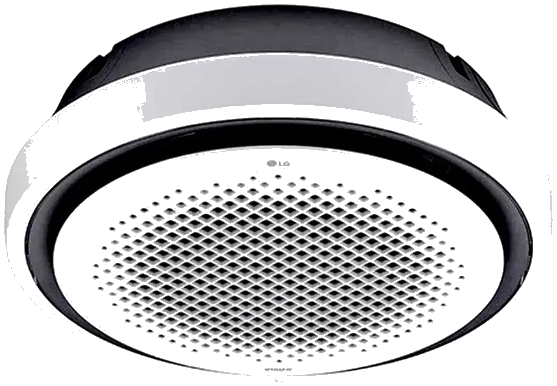
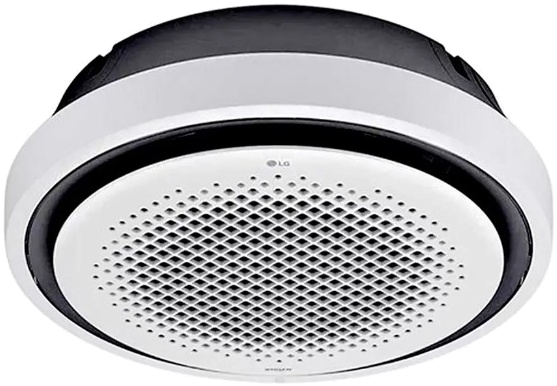
Auto deploy calculator 2026.09.10-v5

diff --git a/index.html b/index.html
@@ -1,5 +1,5 @@
 <!DOCTYPE html>
-<!-- LG Subscribe Calculator build 2026.09.10-v4 · product images FX2725 + SAC + aliases -->
+<!-- LG Subscribe Calculator build 2026.09.10-v5 · SAC strict cutout keep interior white -->
 <html lang="th">
 <head>
 <meta charset="UTF-8" />
@@ -1725,7 +1725,7 @@ function lgCalculator() {
  compareB: { term: '5Y', serviceType: 'Visit', modelIndices: [] },
  cart: [],
  toast: { show: false, msg: '' },
- buildVersion: '2026.09.10-v4',
+ buildVersion: '2026.09.10-v5',
  quoteCustomer: {
    name: '',
    address: '',
